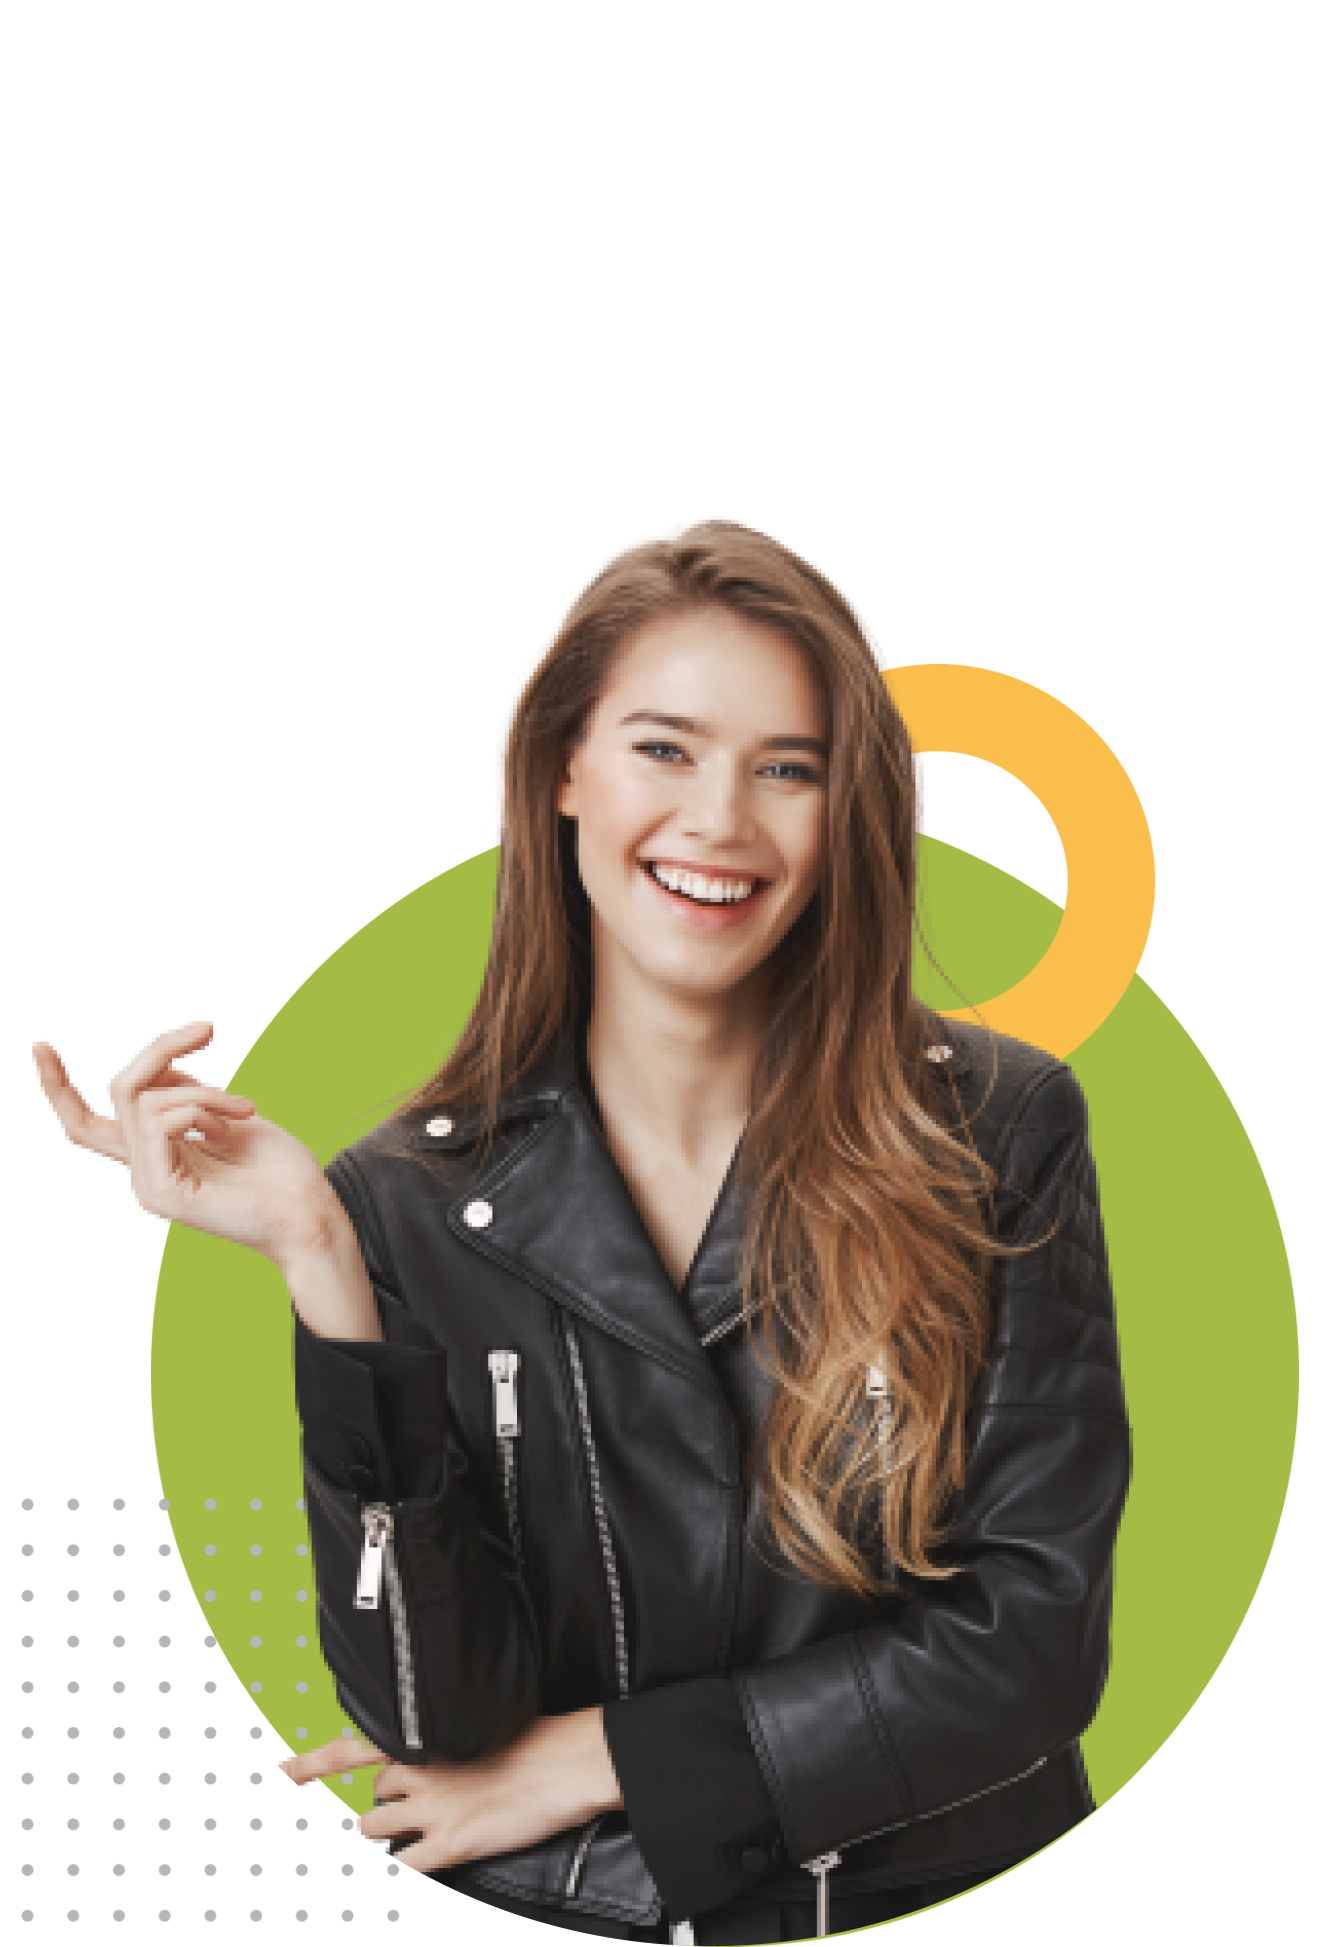
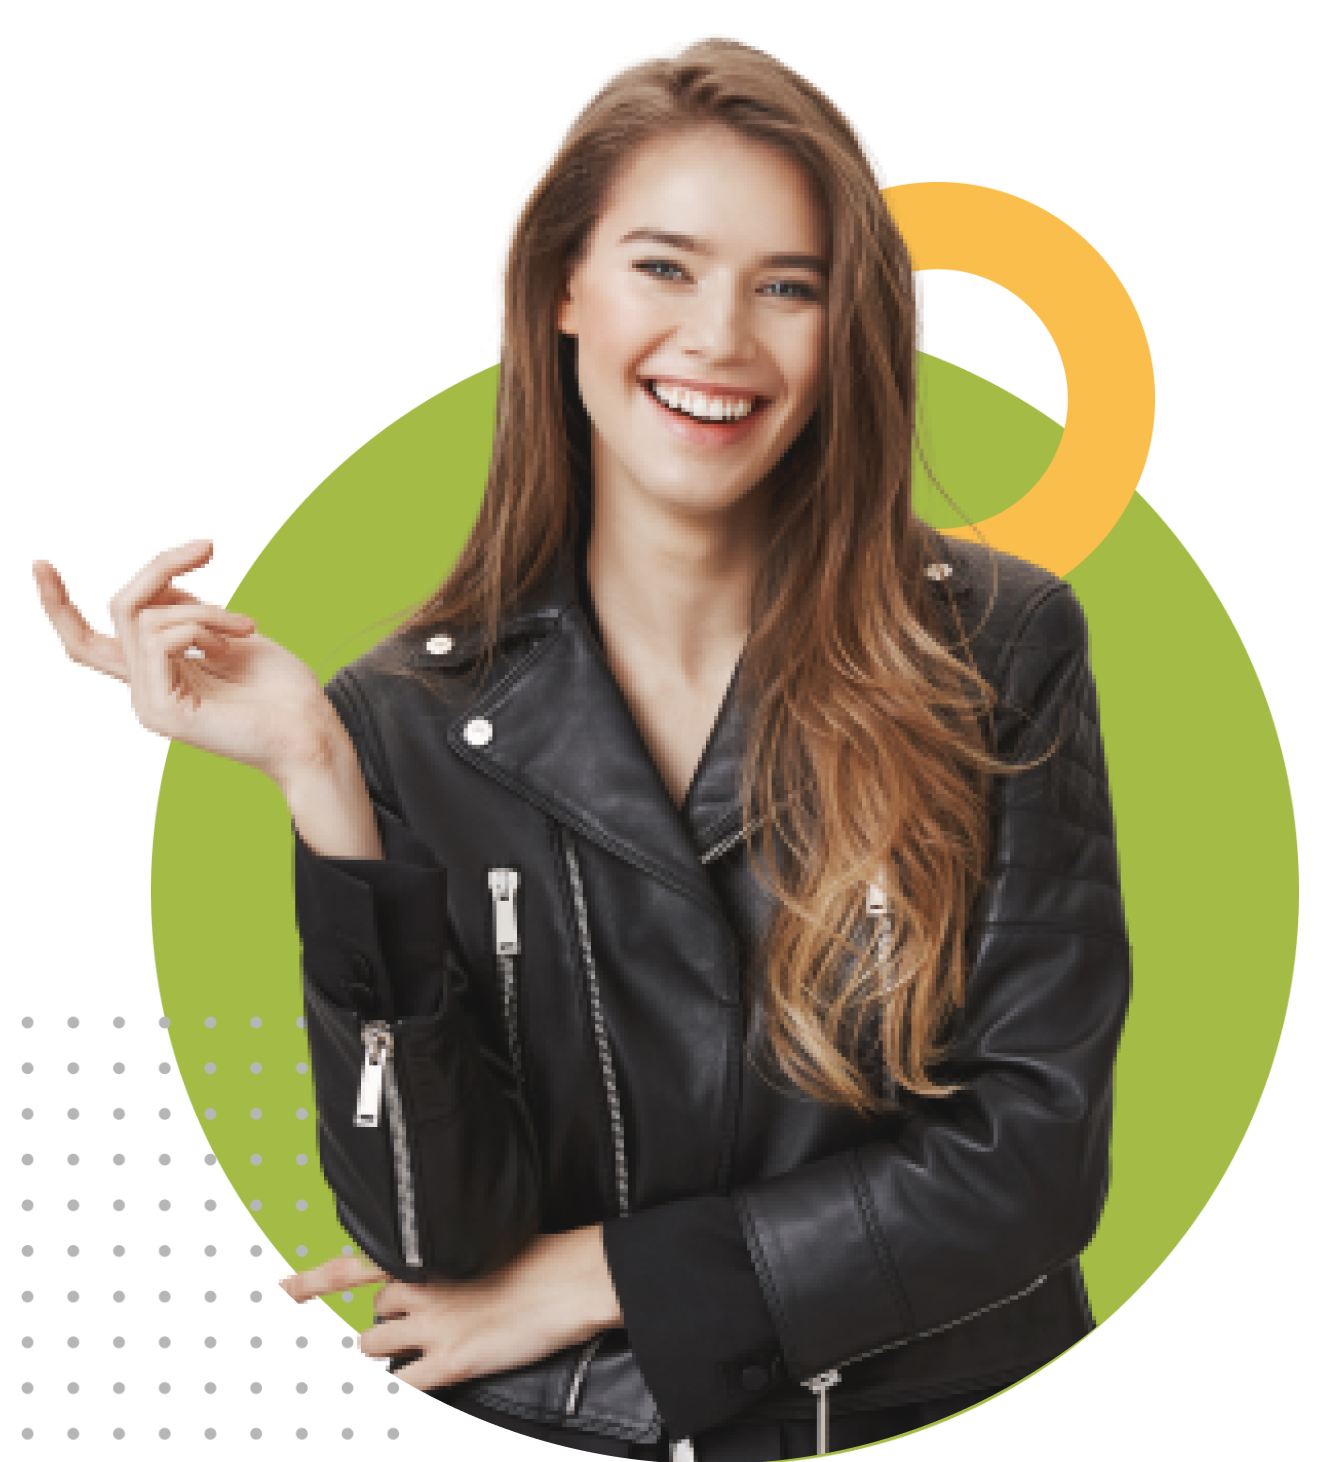
complete front header

diff --git a/index.html b/index.html
@@ -5,17 +5,19 @@
     <meta name="viewport" content="width=device-width, initial-scale=1.0">
     <title>Document</title>
     <link href="https://cdn.jsdelivr.net/npm/bootstrap@5.0.0-beta1/dist/css/bootstrap.min.css" rel="stylesheet" integrity="sha384-giJF6kkoqNQ00vy+HMDP7azOuL0xtbfIcaT9wjKHr8RbDVddVHyTfAAsrekwKmP1" crossorigin="anonymous">
+    <link rel="preconnect" href="https://fonts.gstatic.com">
+    <link href="https://fonts.googleapis.com/css2?family=Bebas+Neue&display=swap" rel="stylesheet">
     <link rel="stylesheet" href="style.css">
 </head>
 <body>
-    <header class="container">
-        <nav class="navbar navbar-expand-lg navbar-light bg-light">
-            <div class="container-fluid">
-              <a class="navbar-brand navbar-logp" href="#"><img src="Logo, Icon/Group 33072.png" alt=""></a>
+    <header class="container head-con">
+        <nav class="navbar navbar-expand-lg navbar-light bg-light p-0">
+            <div class="container-fluid nav-color">
+              <a class="navbar-brand navbar-logo" href="#"><img src="Logo, Icon/Group 33072.png" alt=""></a>
               <button class="navbar-toggler" type="button" data-bs-toggle="collapse" data-bs-target="#navbarNavDropdown" aria-controls="navbarNavDropdown" aria-expanded="false" aria-label="Toggle navigation">
                 <span class="navbar-toggler-icon"></span>
               </button>
-              <div class="collapse navbar-collapse flex-row-reverse bd-highlight" id="navbarNavDropdown">
+              <div class="collapse navbar-collapse flex-row-reverse bd-highlight nav-lis" id="navbarNavDropdown">
                 <ul class="navbar-nav navbar-list">
                   <li class="nav-item">
                     <a class="nav-link active" aria-current="page" href="#">Home</a>
@@ -41,8 +43,21 @@
               </div>
             </div>
           </nav>
+          <section>
+            <div class="container front-bg mt-4 p-4">
+              <div class="row">
+                <div class="col-sm-12 col-md-6 col-lg-8 mt-5">
+                  <h2 class="head-title orange-color">BE THE PENGUINE </h2>
+                  <h2 class="head-title">OF WINTER</h2>
+                  <small>Lorem ipsum dolor, sit amet consectetur adipisicing elit. Libero, laborum.</small><br><br>
+                  <button type="button" class="btn buy-now-btn">BUY NOW</button>
+                </div>
+                <div class="col-sm-12 col-md-6 col-lg-4"><img src="Image/Mask Group.png" alt=""></div>
+              </div>
+            </div>
+          </section>
     </header>
-
+    
 
     <script src="https://cdn.jsdelivr.net/npm/bootstrap@5.0.0-beta1/dist/js/bootstrap.bundle.min.js" integrity="sha384-ygbV9kiqUc6oa4msXn9868pTtWMgiQaeYH7/t7LECLbyPA2x65Kgf80OJFdroafW" crossorigin="anonymous"></script>
 </body>

diff --git a/style.css b/style.css
@@ -1,6 +1,33 @@
-.container{
-    margin: 30px auto;
+header{
+    height: 100%;
+    background-color: #fffbf0;
 }
-.navbar-logp img{
+.nav-list{
+    font-size: 20px;
+    font-family: 'Poppins', sans-serif;
+}
+/* .head-con{
+    margin: 20px auto;
+} */
+.nav-color{
+    background-color: #fffbf0;
+}
+.navbar-logo img{
     width: 200px;
+}
+.front-bg img{
+    width: 300px;
+    
+}
+.buy-now-btn{
+    background-color: #a4bc46;
+    color: white;
+}
+.orange-color{
+    color: #fabe4c;
+}
+.head-title{
+    font-size: 50px;
+    font-weight: bold;
+    font-family: 'Bebas Neue', cursive;
 }
